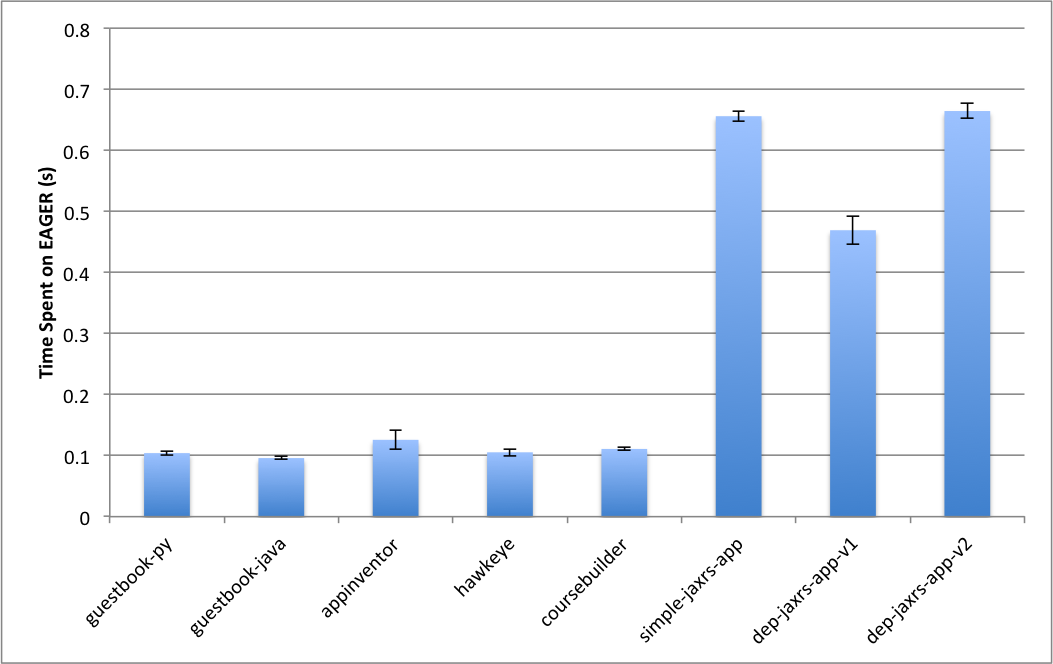
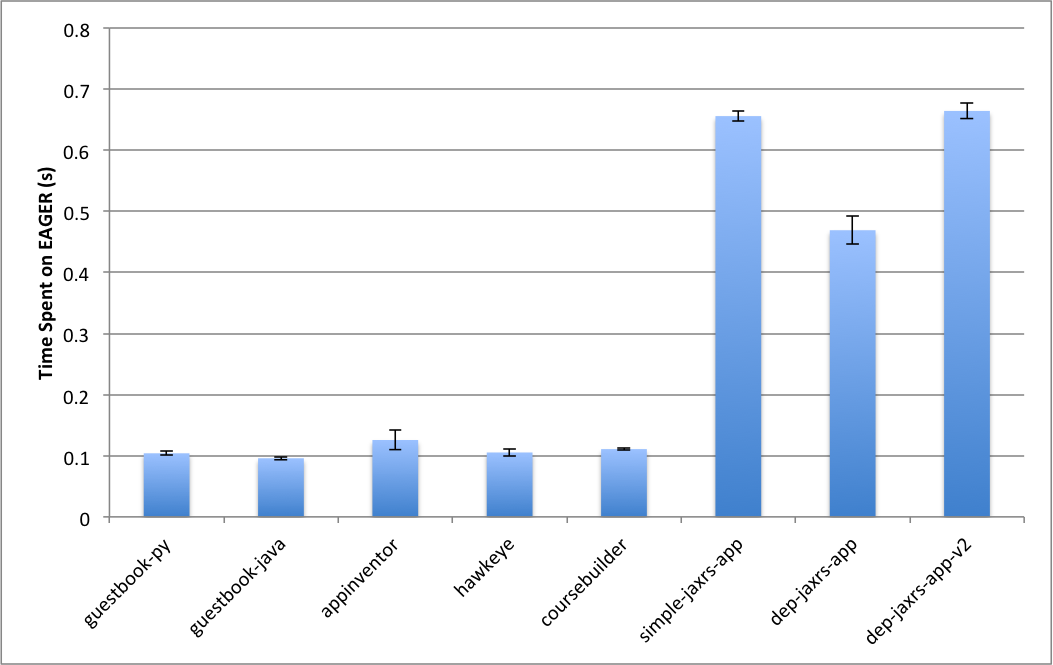
Almost finished with results section

diff --git a/Eager/paper/results.tex b/Eager/paper/results.tex
@@ -20,7 +20,7 @@ appinventor & A popular open source web application that enables creating mobile
 coursebuilder & A popular open source web application used to facilitate teaching online courses & 37M & 23.75 & 0.30 \\ \hline
 hawkeye & A sample Java application used to test AppScale & 35M & 23.37 & 0.27 \\ \hline
 simple-jaxrs-app & A sample JAXRS app that exports 2 web APIs & 34M & 23.45 & 0.34 \\ \hline
-dep-jaxrs-app-v1 & A sample JAXRS app that exports a web API and has one dependency & 34M & 23.72 & 0.32 \\ \hline
+dep-jaxrs-app & A sample JAXRS app that exports a web API and has one dependency & 34M & 23.72 & 0.32 \\ \hline
 dep-jaxrs-app-v2 & A sample JAXRS app that exports 2 web APIs and has one dependency & 34M & 23.95 & 0.65 \\ \hline
 \end{tabular}
 \end{center}
@@ -68,7 +68,7 @@ which is very small compared to the total application deployment time in AppScal
 The overhead difference between dep-jaxrs-app-v1 and dep-jaxrs-app-v2 suggests that the EAGER overhead increases with the number
 of APIs exported by an application. In the next section we will further evaluate this property.
 
-\subsection{Impact of Number of APIs and Dependencies on EAGER Overhead}
+\subsection{Impact of Number of APIs and Dependencies}
 
 Figure~\ref{fig:overhead_by_apis} shows that the EAGER overhead grows linearly with the number of APIs exported by an application.
 This is because, in our current implementation, we iterate through the APIs in the application sequentially, and record the associated metadata in the
@@ -111,7 +111,7 @@ Manager as a single batch. After validating and verifying the dependencies, Meta
 them in the database. As a result, the number of web service calls and database queries that originate due to varying number of dependencies
 is fairly constant. This results in a reasonably constant overhead for all cases considered.
 
-\subsection{Impact of Number of Policies on EAGER Overghead}
+\subsection{Impact of Number of Policies}
 
 So far all our experiments were conducted without any active governance policies in the system. In this section we report how EAGER overhead
 varies with the number of policies deployed in the PaaS. 
@@ -137,7 +137,10 @@ on two of our sample applications (guestbook-py and simple-jaxrs-app).
 \end{figure}
 
 Figure~\ref{fig:overhead_by_policies} shows how the number of active policies impact the EAGER overhead. Interestingly, having many
-different policy files have very little influence on the EAGER overhead. This is because EAGER loads policy content into memory at system
+different policy files have very little influence on the EAGER overhead. It is only when the active policy count approaches 1000 that we
+can see a noticeable increase in the overhead. Even then, the increase in deployment time is under 0.1 seconds. 
+
+This behavior is due to the fact that EAGER loads policy content into memory at system
 startup (or when a new policy is deployed), and executes them from memory each time an application is deployed. Since policy files are 
 typically small (at most a few kilobytes), this is a viable option. The overhead of validating the simple-jaxrs-app is higher than that of the
 guestbook-py application because, unlike guestbook-py, simple-jaxrs-app exports web APIs. This means the third assertion listed earlier
@@ -149,9 +152,9 @@ a large number of policy files. However, as mentioned earlier, the content of a 
  caused by EAGER.
  
 \subsection{Scalability}
-Next we evaluate how EAGER scales when a large number of APIs are deployed in the cloud. For this experiment, we populate the EAGER
+Next we evaluate how EAGER scales when a large number of APIs are deployed in the cloud. In this experiment, we populate the EAGER
 Metadata Manager with a varying number of APIs, and then attempt to deploy various sample applications on AppScale. We also create
-random dependencies among the mock APIs recorded in the Metadata Manager to make the setting more realistic.
+random dependencies among the APIs recorded in the Metadata Manager to make the setting more realistic.
 
 \begin{figure}
 \centering
@@ -162,22 +165,73 @@ random dependencies among the mock APIs recorded in the Metadata Manager to make
 
 Figure~\ref{fig:scalability} shows that the deployment overhead of the guestbook-py application is not impacted by the growth of metadata
 in the cloud. Recall that guestbook-py does not export any APIs nor it declares any dependencies. Therefore the deployment process of
-the guestbook-py application has minimal interactions with the Metadata Manager. Based on this we may conclude that applications that
-do not export web APIs are not impacted by the accumulation of metadata in EAGER.
+the guestbook-py application has minimal interactions with the Metadata Manager. Based on this result we may conclude that applications that
+do not export web APIs are not significantly affected by the accumulation of metadata in EAGER.
 
 Both simple-jaxrs-app and dep-jaxrs-app are
 somewhat affected by the volume of data stored in EAGER Metadata Manager. Since these applications export web APIs that must be 
-recorded and validated by the Metadata Manager, the explosion of metadata has an increasingly higher impact on them. The simple-jaxrs-app
-is affected more than dep-jaxrs-app because simple-jaxrs-app exports two APIs compared to the one API exported by dep-jaxrs-app. The growth
+recorded and validated by the Metadata Manager, the explosion of metadata has an increasingly higher impact on them. This degradation 
+of performance is primarily due to the slow query performance of the RDBMS engine (MySQL) as the database size grows. The simple-jaxrs-app
+is affected more than dep-jaxrs-app by this performance drop, because simple-jaxrs-app exports two APIs compared to the single API exported 
+by dep-jaxrs-app. However, on a more positive note, the growth
 in overhead is linear to the number of APIs deployed in the cloud which indicates a fairly good scalability trait. Also it is encouraging to see that
 even after deploying 10000 APIs, the overhead of simple-jaxrs-app has only been increased by about 0.5 seconds, which is very small compared
 to the total deployment time of the application.
 
-Another interesting attribute to notice in our results is the growing amount of variance in the overhead as the number of APIs in the cloud grows.
+Another interesting attribute to notice in figure~\ref{fig:scalability} is the growing amount of variance in the overhead as the number of APIs in the cloud grows.
 We believe this is due to the increasing variability of database query performance and the data transfer performance as the size of the 
 database increases.
 
 Overall, we can conclude that EAGER scales well to 1000's of APIs. This is a very positive result, as today's popular API registries (e.g. ProgrammableWeb.com) 
-place the total number of open APIs in the Internet somewhere in the range of 10000-15000. If further scalability is required, we can benefit from the past and ongoing
-work from the database and big data communities and use a faster, and more scalable database engine (e.g. a NoSQL engine) to implement 
-EAGER rather than using a simple RDBMS.
+place the total number of APIs in the Internet somewhere in the range of 10000 to 15000. If further scalability is required, we can leverage the past and ongoing
+work from the database community, and use a faster, and more scalable database engine (e.g. a NoSQL engine) to implement the
+EAGER Metadata Manager rather than using a simple RDBMS.
+
+\subsection{Experimental Results with a Real-World Dataset}
+Finally, we explore how EAGER operates when loaded with a real-world dataset with real API metadata and dependency information. For this, we 
+crawl the ProgrammableWeb.com registry and extract metadata regarding all the registered APIs and mashups. By the time we conducted
+this experiment, there were 11095 APIs and 7227 mashups registered in ProgrammableWeb. Each of the mashups depend on one or more APIs.
+
+We started by adding all 11095 APIs to the EAGER Metadata Manager. Then we also registered each of the mashups as APIs in EAGER. We used the
+mashup-API dependency information extracted from ProgrammableWeb to register dependencies among the APIs in EAGER. This resulted in a 
+dependency graph of 18322 vertices (APIs and mashups) and 33615 edges. With EAGER pre-populated with all this metadata, we then deploy
+some of our sample applications on AppScale to measure the deployment overhead caused by EAGER.
+
+\begin{figure}
+\centering
+\includegraphics[scale=0.45]{pweb_sample_overhead}
+\caption{EAGER Overhead When Deploying on ProgrammableWeb Dataset}
+\label{fig:pweb_sample_overhead}
+\end{figure}
+
+As shown in figure~\ref{fig:pweb_sample_overhead}, the guestbook-py app is not significantly impacted by having a large dependency graph. This is
+expected since guestbook-py doesn't export any web APIs. The applications that do export web API, and hence have to interact with the Metadata
+Manager register a slightly higher deployment overhead. But the highest overhead observed is under 2 seconds, which is still very small compared
+to the total application deployment time (20+ seconds). The simple-jaxrs-app shows a higher overhead than dep-jaxrs-app because it exports one
+additional web API than dep-jaxrs-app. 
+
+All three sample applications considered in the above experiment do not declare dependencies on any of the APIs or mashups in the ProgrammableWeb
+dataset. The dep-jaxrs-app does declare a dependency, but that is on an API exported by simple-jaxrs-app. To see how the deployment time is impacted
+when applications take dependencies on other APIs registered in EAGER, we deploy a test application that declares random dependencies on APIs
+registered in EAGER Metadata Manager (this application also exports a web API). We change the declared dependency count between 
+10 and 50 and also redeploy the application multiple times.
+In one set of experiments, we run a deployment script that randomly modifies the declared dependencies at each redeployment. In another set of 
+experiments, we redeploy the application without further randomizing the declared dependencies.
+
+\begin{figure}
+\centering
+\includegraphics[scale=0.45]{pweb_random_overhead}
+\caption{EAGER Overhead When Deploying on ProgrammableWeb Dataset with Dependencies}
+\label{fig:pweb_random_overhead}
+\end{figure}
+
+Figure~\ref{fig:pweb_random_overhead} illustrates results from both sets of experiments. Columns labeled as ``random'' indicate the average overhead
+computed across 3 redeployments, where the declared dependencies were randomized prior to each redeployment. Columns labeled as ``fixed'' show
+the average overhead calculated across 3 redeployments, where the dependency declaration was kept fixed across redeployments. The numeric value
+in each label indicates the number of dependencies declared.
+
+Interestingly, having many dependencies do not have a big impact on the overhead. This is inline with our observations in figure~\ref{fig:overhead_by_deps}.
+It is encouraging to see that the same property holds when the Metadata Manager is loaded with over 18000 entries, that has real-world dependency
+relationships among them. The largest overhead observed is under 1.2 seconds, which is significantly smaller than the total deployment overhead of AppScale.
+Also it is interesting to see that, whenever the dependency declaration was kept fixed, the overhead is slightly smaller. This is because our prototype caches
+the edges of the dependency tree that have been read, which makes immediate redeployments go faster.

diff --git a/Eager/evaluation/pwcrawler/count.py b/Eager/evaluation/pwcrawler/count.py
@@ -1,0 +1,9 @@
+if __name__ == '__main__':
+    fh = open('pweb.txt', 'r')
+    lines = fh.readlines()
+    fh.close()
+    mashups = set()
+    for line in lines:
+        if line.startswith('  -->'):
+            mashups.add(line)
+    print 'Mashups:', len(mashups) 

diff --git a/Eager/paper/paper.tex b/Eager/paper/paper.tex
@@ -4,7 +4,7 @@
 \usepackage{amssymb}
 \usepackage{pifont}
 \usepackage{url}
-\usepackage{flushend}
+%\usepackage{flushend}
 \newcommand{\xmark}{\ding{55}}%
 \usepackage[lined,boxed]{algorithm2e}
 \newcommand{\ignore}[1]{}
